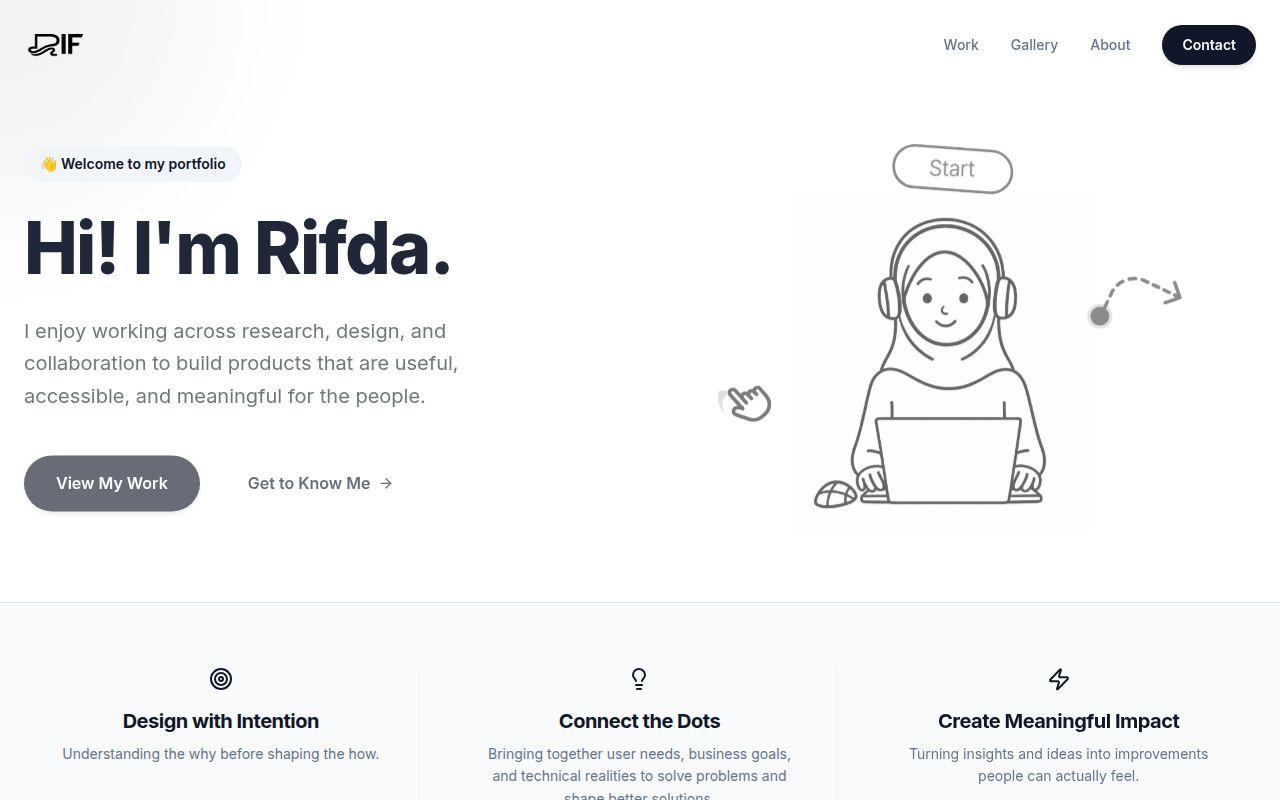
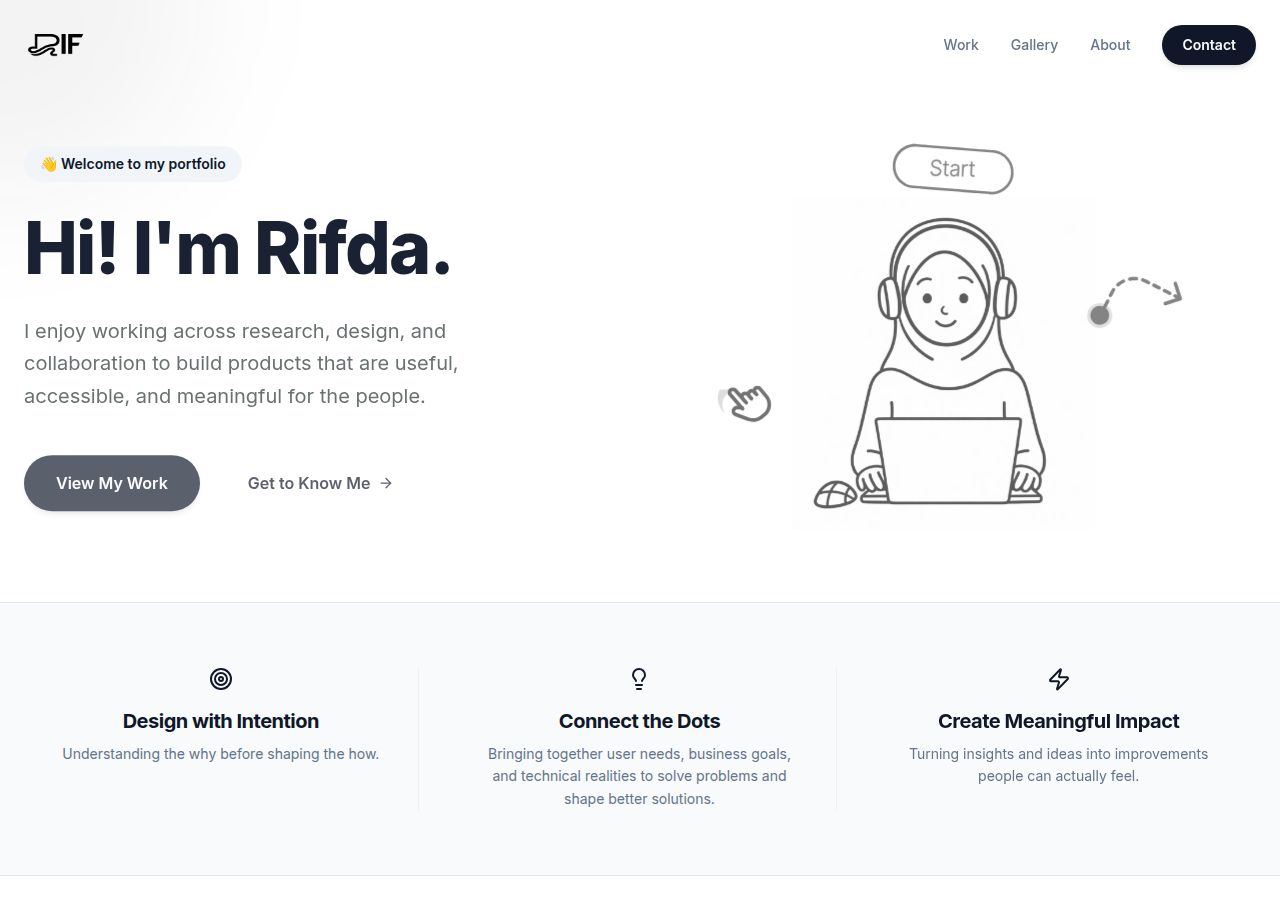
Adjust spacing and size of blog post cards
Modify `Blog.tsx` to reduce subtitle margin, increase card padding and font sizes, and remove the "View All Posts" button.

Replit-Commit-Author: Agent
Replit-Commit-Session-Id: 95c96ab8-9149-4e40-8adc-505fc8c6ee8b
Replit-Commit-Checkpoint-Type: full_checkpoint
Replit-Commit-Event-Id: d2329427-7518-41bd-b566-7dcd368ee12a
Replit-Commit-Screenshot-Url: https://storage.googleapis.com/screenshot-production-us-central1/43477e83-1d9a-46f7-9f3b-12cba837a63b/95c96ab8-9149-4e40-8adc-505fc8c6ee8b/LpXXzhX
Replit-Helium-Checkpoint-Created: true

diff --git a/artifacts/portfolio/src/components/sections/Blog.tsx b/artifacts/portfolio/src/components/sections/Blog.tsx
@@ -1,13 +1,12 @@
 import { motion } from "framer-motion";
 import { ArrowRight, Clock } from "lucide-react";
-import { Button } from "@/components/ui/button";
 import { blogPosts } from "@/data/portfolio";
 
 export function Blog() {
   return (
     <section id="blog" className="py-24 bg-secondary/20">
       <div className="container mx-auto px-6 max-w-7xl">
-        <div className="mb-16 max-w-2xl">
+        <div className="mb-8 max-w-2xl">
           <motion.h2
             initial={{ opacity: 0, y: 20 }}
             whileInView={{ opacity: 1, y: 0 }}
@@ -27,7 +26,7 @@ export function Blog() {
           </motion.p>
         </div>
 
-        <div className="grid grid-cols-1 md:grid-cols-2 lg:grid-cols-4 gap-6">
+        <div className="grid grid-cols-1 md:grid-cols-2 gap-6">
           {blogPosts.map((post, index) => (
             <motion.a
               href={post.href}
@@ -36,21 +35,21 @@ export function Blog() {
               whileInView={{ opacity: 1, y: 0 }}
               viewport={{ once: true }}
               transition={{ duration: 0.4, delay: index * 0.1 }}
-              className="group flex flex-col p-6 rounded-2xl bg-card border border-border hover:border-primary/20 hover:shadow-lg transition-all duration-300"
+              className="group flex flex-col p-8 rounded-2xl bg-card border border-border hover:border-primary/20 hover:shadow-lg transition-all duration-300"
             >
-              <div className="flex items-center gap-3 text-xs font-medium text-muted-foreground mb-4">
+              <div className="flex items-center gap-3 text-sm font-medium text-muted-foreground mb-4">
                 <span>{post.date}</span>
                 <span className="w-1 h-1 rounded-full bg-border" />
                 <span className="flex items-center">
-                  <Clock className="w-3 h-3 mr-1" /> {post.readTime}
+                  <Clock className="w-4 h-4 mr-1" /> {post.readTime}
                 </span>
               </div>
 
-              <h3 className="text-lg font-bold mb-3 group-hover:text-primary transition-colors line-clamp-2">
+              <h3 className="text-xl font-bold mb-3 group-hover:text-primary transition-colors line-clamp-2">
                 {post.title}
               </h3>
 
-              <p className="text-sm text-muted-foreground mb-6 line-clamp-3 flex-grow">
+              <p className="text-base text-muted-foreground mb-6 line-clamp-3 flex-grow">
                 {post.excerpt}
               </p>
 
@@ -60,12 +59,6 @@ export function Blog() {
               </div>
             </motion.a>
           ))}
-        </div>
-
-        <div className="mt-16 text-center">
-          <Button variant="outline" size="lg">
-            View All Posts
-          </Button>
         </div>
       </div>
     </section>
